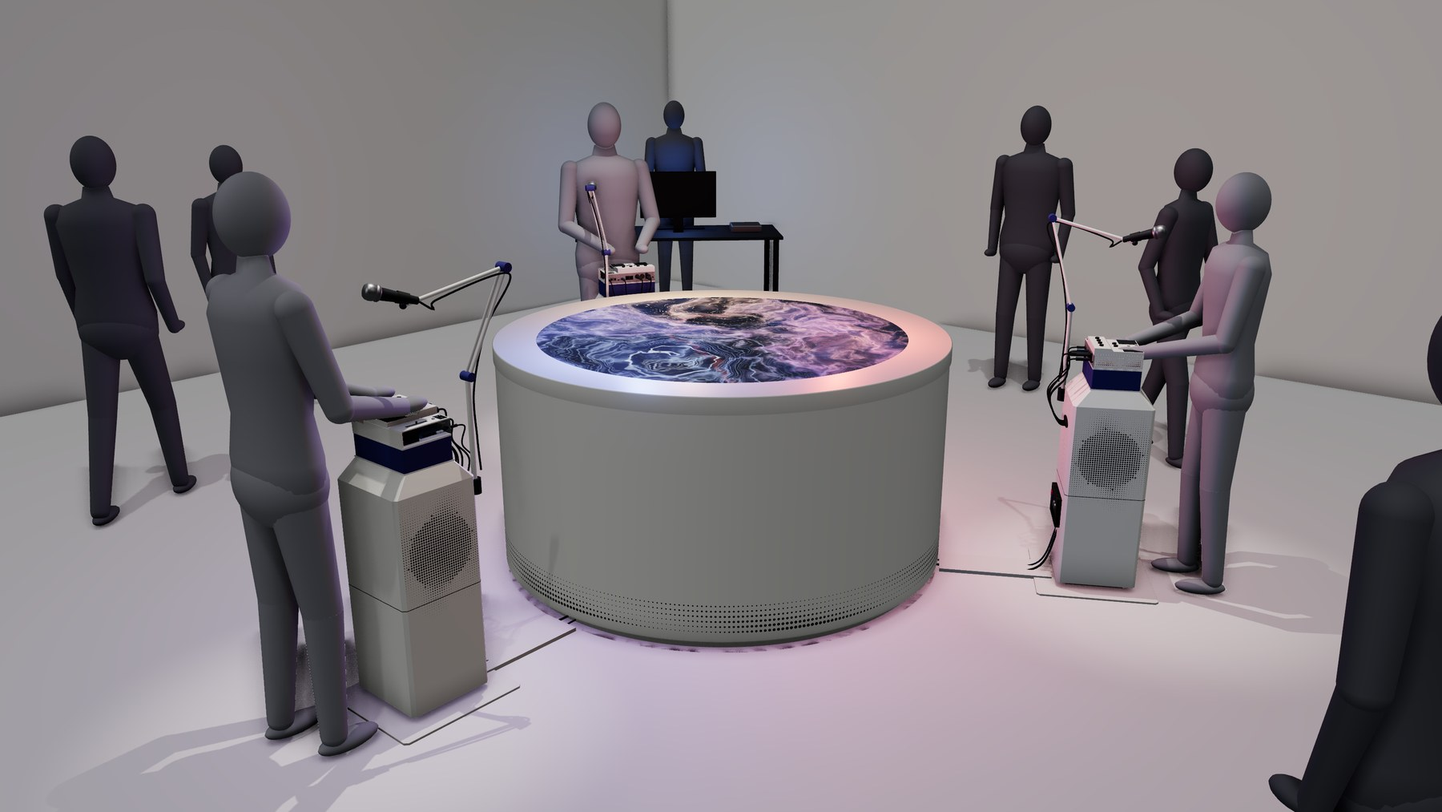
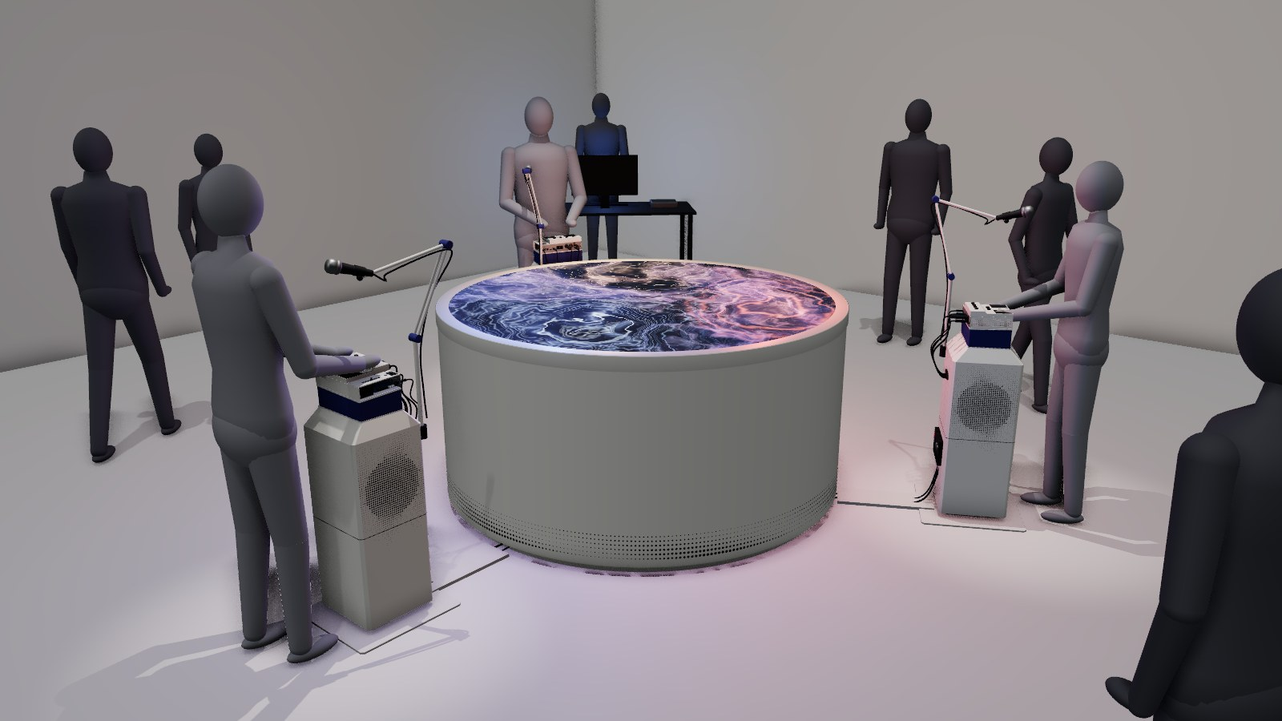
Deux petits HT2150ST dos à dos, miroirs à 45°, image de 6 pi
L'Epson L1505U (586 x 492 x 211 mm, 21,7 kg) est retiré : trop gros.
Deux BenQ HT2150ST de la liste de prêt éclairent un demi-disque chacun,
dans un socle rond de 1,94 m. Variante à un seul projecteur.

Changed region(s): [[0.0312, 0.1244, 0.9688, 1.0], [0.9375, 0.3733, 1.0, 0.56], [0.7188, 0.1244, 0.75, 0.1556]]

diff --git a/js/space.js b/js/space.js
@@ -42,32 +42,42 @@ export function screenMaterial(R,cyl){
     fragmentShader:'uniform float uAlpha;\n'+FRAG });
 }
 
-// Projecteur à plat dans le socle, miroir à 45°, image vers le haut.
-// Plan (x,z) : disque de -R à R à z = H ; miroir z = x - c ; objectif en (-x0, z0), axe vers +x.
-// Cherche le plus petit socle rond sans que le boîtier fasse ombre.
+// Projecteurs à plat dans le socle, miroirs à 45°, image vers le haut. Plan (x,z), disque de -R à R à z = H.
+// Cherche le plus petit socle rond où rien ne fait ombre. Pour deux projecteurs, le second est le symétrique (x -> -x).
+const inP=(x,z,Q)=>{ let c=false; for(let i=0,n=Q.length;i<n;i++){ const [x1,z1]=Q[i],[x2,z2]=Q[(i+1)%n]; if((z1>z)!==(z2>z)&&x<(x2-x1)*(z-z1)/(z2-z1)+x1) c=!c; } return c; };
+const ori=(p,q,r)=>(q[0]-p[0])*(r[1]-p[1])-(q[1]-p[1])*(r[0]-p[0]);
+const hits=(A,B)=>{ for(let i=0;i<A.length;i++) for(let j=0;j<B.length;j++){ const a=A[i],b=A[(i+1)%A.length],c=B[j],d=B[(j+1)%B.length]; if(ori(a,b,c)*ori(a,b,d)<0&&ori(c,d,a)*ori(c,d,b)<0) return true; } return inP(...A[0],B)||inP(...B[0],A); };
+const flip=Q=>Q.map(([x,z])=>[-x,z]);
+export const OV=.12;
 export function solve(P,R,H){
-  const Di=2*R*1.02, T=P.tr*P.aspect*Di, A=T-H; let best=null;
-  for(let si=0;si<=40;si++){ const sh=(P.s[0]+(P.s[1]-P.s[0])*si/40)*Di;
-    for(let z0=P.bot+.03;z0<.8;z0+=.01){
-      const c=sh-z0, xl=-(A-c), mir=X=>{ const den=T-X+sh; if(den<=0) return null; const u=(A+z0)/den, z=-A+u*T; return [z+c,z,u]; }, m1=mir(-R), m2=mir(R);
-      if(!m1||!m2||m1[1]<.025||m2[1]>H-.06||m1[0]<xl+.04||m1[2]<=0||m1[2]>=1||m2[2]>=1) continue;
-      const ray=x=>x>=m1[0]?-1:x<=-R?9:m1[1]+(H-m1[1])*(x-m1[0])/(-R-m1[0]), bx1=xl-P.lens, bx0=bx1-P.dep;
-      if(ray(xl)<z0+(P.lens>0?.075:P.top)+.015||ray(bx1)<z0+P.top+.015||z0+P.top>H-.08) continue;
-      const Rb=Math.max(Math.hypot(bx0,P.w/2),Math.abs(m2[0]),R)+.03; if(best&&Rb>=best.Rb) continue;
-      best={ Rb,sh,Di,T,A,z0,c,xl,bx0,bx1,m1,m2,mir };
+  const duo=P.n===2, Xa=-R, Xb=duo?OV/2:R, need=Xb-Xa, w=Math.max(2*R*1.02,need*1.02*P.aspect), h=w/P.aspect, T=P.tr*w; let best=null;
+  for(const fr of duo?[0,.5,1]:[.5]) for(const lean of [1,-1]) for(const sv of P.s) for(const sg of [1,-1]){
+    const Xc=(Xa+Xb)/2+(fr-.5)*(h-need)*.9, pv=[Xc+sv*h*lean,H-T], n=[-Math.SQRT1_2*sg,Math.SQRT1_2];
+    const refl=v=>{ const d=v[0]*n[0]+v[1]*n[1]; return [v[0]-2*d*n[0],v[1]-2*d*n[1]]; }, ax=refl([0,1]), up=refl([-lean,0]);
+    for(let q=-R-.4;q<=R+.4;q+=.02){
+      const m0=[q,.03], off=(pv[0]-q)*n[0]+(pv[1]-.03)*n[1]; if(off>=-.02) continue;
+      const M=X=>{ const d=[X-pv[0],T], k=-off/(d[0]*n[0]+d[1]*n[1]); return [pv[0]+k*d[0],pv[1]+k*d[1],k]; }, m1=M(Xa), m2=M(Xb);
+      if(!(m1[2]>0&&m1[2]<.97&&m2[2]>0&&m2[2]<.97)||Math.min(m1[1],m2[1])<.025||Math.max(m1[1],m2[1])>H-.08) continue;
+      const r=refl([pv[0]-q,pv[1]-.03]), L=[q+r[0],.03+r[1]], at=(d,e)=>[L[0]-ax[0]*d+up[0]*e,L[1]-ax[1]*d+up[1]*e], mk=d=>[at(d,P.up),at(d,-P.dn),at(P.dep,-P.dn),at(P.dep,P.up)], bd=mk(0);
+      const zs=bd.map(p=>p[1]); if(Math.min(...zs)<.03||Math.max(...zs)>H-.05) continue;
+      let Rb=Math.max(...bd.map(p=>Math.hypot(p[0],P.w/2)),R)+.03; if(best&&Rb>=best.Rb-1e-4) continue;
+      const p2=m=>[m[0],m[1]], beam=[p2(m1),p2(m2),[Xb,H],[Xa,H]], inc=[[L[0]+ax[0]*.004,L[1]+ax[1]*.004],p2(m1),p2(m2)], back=[p2(m1),p2(m2),[m2[0]-n[0]*.02,m2[1]-n[1]*.02],[m1[0]-n[0]*.02,m1[1]-n[1]*.02]];
+      if(hits(bd,beam)||hits(mk(.006),inc)||hits(back,bd)||bd.some(p=>inP(p[0]+.015,p[1],beam)||inP(p[0]-.015,p[1],beam))) continue;
+      if(duo&&([beam,inc,bd].some(Q=>hits(bd,flip(Q)))||[beam,inc,bd,back].some(Q=>hits(back,flip(Q))))) continue;
+      let mw=0; for(let i=0;i<=30;i++){ const X=Xa+(Xb-Xa)*i/30, m=M(X), y=m[2]*Math.sqrt(Math.max(R*R-X*X,0)); mw=Math.max(mw,y); Rb=Math.max(Rb,Math.hypot(m[0],y)+.04); }
+      if(best&&Rb>=best.Rb-1e-4) continue;
+      best={ Rb,T,w,h,pv,L,ax:ax[0],up:up[1],sg,m1,m2,M,Xa,Xb,x0:Math.min(...bd.map(p=>p[0])),x1:Math.max(...bd.map(p=>p[0])),z0:Math.min(...zs),z1:Math.max(...zs),ml:Math.hypot(m2[0]-m1[0],m2[1]-m1[1])+.05,mw:2*mw+.05,sv };
     } }
-  if(best){ let wy=0; for(let i=-40;i<=40;i++){ const X=R*i/40; wy=Math.max(wy,best.mir(X)[2]*Math.sqrt(Math.max(R*R-X*X,0))); } best.mw=2*wy+.06; best.ml=(best.m2[1]-best.m1[1])*Math.SQRT2+.05; }
   return best;
 }
 const CACHE=new Map();
 export function optics(s){
   const k=[s.proj,s.diam,s.ecranH].join(); if(CACHE.has(k)) return CACHE.get(k);
   const P=PROJ[s.proj], R=s.diam*FT/2, H=s.ecranH/1000, f=solve(P,R,H), o={ P,R,H,f,Rb:f?f.Rb:R+.1 };
-  o.px=2*R*1.02/P.px*1000; o.lux=P.lm*.9*(Math.PI/4/P.aspect)/1.02/1.02/(Math.PI*R*R);
-  if(f){ o.inc=Math.atan2(R+Math.abs(f.sh),f.T)*180/Math.PI; o.rim=f.Rb-R; }
+  if(f){ o.px=f.h/P.px*1000; o.lux=P.lm*.9/(f.w*f.h); o.rim=f.Rb-R; let t=0; for(let i=0;i<=60;i++){ const X=f.Xa+(f.Xb-f.Xa)*i/60; t=Math.max(t,Math.hypot(X-f.pv[0],Math.sqrt(Math.max(R*R-X*X,0)))); } o.inc=Math.atan2(t,f.T)*180/Math.PI; }
   CACHE.set(k,o); return o;
 }
-export function diamMax(s){ let m=0; for(let d=3;d<=7.001;d+=.25) if(solve(PROJ[s.proj],d*FT/2,s.ecranH/1000)) m=d; return m; }
+export function diamMax(s){ let m=3; for(let d=3;d<=7.001;d+=.25){ const f=solve(PROJ[s.proj],d*FT/2,s.ecranH/1000); if(f&&f.Rb-d*FT/2<.2) m=d; } return m; }
 
 export function buildSpace(s,lists){
   const g=new THREE.Group(), R=s.diam*FT/2, H=s.ecranH/1000, RW=s.salle, RH=3.8, out={ g, inst:[], lights:[] };
@@ -92,30 +102,33 @@ export function buildSpace(s,lists){
   // prises d'air : même trame que le case
   const L=[[],[]]; for(let j=0;j<6;j++) for(let i=0;i<360;i++){ const a=i/360*TAU, w=.5+.5*Math.cos(a*6+j*.5), r=.0016+.0046*w*(1-j/7); L[Math.sin(a)>0?1:0].push([V(Math.sin(a)*(Rb-.0052),.085+j*.02,Math.cos(a)*(Rb-.0052)),V(Math.sin(a),0,Math.cos(a)),r]); }
   L.forEach((l,k)=>{ const d=dots(l,M.hole); scr.add(d); half[k].push(d); });
-  // --- projecteur, miroir, faisceau. Repère du calcul : x -> z du monde
+  // --- projecteurs, miroirs, faisceaux. Repère du calcul : x -> z du monde
   const pj=new THREE.Group(); scr.add(pj); out.proj=pj; const beams=new THREE.Group(); scr.add(beams); out.beams=beams;
-  if(F){
-    const W3=(x,y,z)=>V(y,z,x), bx=(x0,y0,z0,x1,y1,z1,m,r)=>cbox(pj,[y0,z0,x0],[y1,z1,x1],m,r);
-    bx(F.bx0,-P.w/2,F.z0-P.bot,F.bx1,P.w/2,F.z0+P.top,P.lens?M.white:M.black,.02);
-    for(let i=0;i<12;i++) bx(F.bx0+.05+i*.03,P.w/2-.002,F.z0-P.bot*.5,F.bx0+.062+i*.03,P.w/2+.002,F.z0+P.top*.6,M.hole);
-    const lr=P.lens?.07:.035, ln=ccyl(pj,lr,Math.max(P.lens,.02)+.02,[0,F.z0,F.xl-Math.max(P.lens,.02)/2],M.black,'z'); ccyl(pj,lr*.78,.004,[0,F.z0,F.xl+.011],M.pad,'z');
-    const yb=F.z0-P.bot; if(yb>.06){ [-1,1].forEach(k=>[F.bx0+.06,F.bx1-.06].forEach(x=>rod(pj,[k*P.w*.4,0,x],[k*P.w*.4,yb,x],.012,M.dark))); bx(F.bx0+.02,-P.w/2,yb-.012,F.bx1-.02,P.w/2,yb,M.dark,.003); }
-    if(P.inverse){ const yt=F.z0+P.top; bx(F.bx0+.03,-P.w/2,yt,F.bx1-.03,P.w/2,yt+.01,M.dark,.003); }
+  if(F) for(let u=0;u<P.n;u++){
+    const G=new THREE.Group(), B=new THREE.Group(); G.rotation.y=B.rotation.y=u*Math.PI; pj.add(G); beams.add(B);
+    const W3=(x,y,z)=>V(y,z,x), bx=(x0,y0,z0,x1,y1,z1,m,r)=>cbox(G,[y0,z0,x0],[y1,z1,x1],m,r);
+    bx(F.x0,-P.w/2,F.z0,F.x1,P.w/2,F.z1,M.white,.02);
+    for(let i=0;i<9;i++) bx(F.x0+.05+i*.02,P.w/2-.002,F.z0+.03,F.x0+.06+i*.02,P.w/2+.002,F.z1-.03,M.hole);
+    ccyl(G,.036,.03,[-.06,F.L[1],F.L[0]-F.ax*.006],M.black,'z'); ccyl(G,.028,.004,[-.06,F.L[1],F.L[0]+F.ax*.011],M.pad,'z');
+    // support : plaque et quatre pattes
+    bx(F.x0+.015,-P.w/2+.02,F.z0-.012,F.x1-.015,P.w/2-.02,F.z0-.002,M.dark,.003);
+    [-1,1].forEach(k=>[F.x0+.04,F.x1-.04].forEach(x=>rod(G,[k*P.w*.4,0,x],[k*P.w*.4,F.z0-.01,x],.009,M.dark)));
     // miroir
-    const dx=F.ml/2/Math.SQRT2, mx=(F.m1[0]+F.m2[0])/2, mz=(F.m1[1]+F.m2[1])/2, mg=new THREE.Group(); mg.position.copy(W3(mx,0,mz)); mg.rotation.x=-Math.PI/4; pj.add(mg);
-    const sh=k=>{ const q=new THREE.Shape(); for(let n=0;n<64;n++){ const a=n/64*TAU, X=Math.sin(a)*R, m=F.mir(X), tt=((m[0]-mx)+(m[1]-mz))/Math.SQRT2, yy=m[2]*Math.cos(a)*R; const f=1+k/Math.max(Math.hypot(tt,yy),.05); n?q.lineTo(yy*f,-tt*f):q.moveTo(yy*f,-tt*f); } return q; };
-    const back=mesh(new THREE.ExtrudeGeometry(sh(.02),{depth:.006,bevelEnabled:false}).rotateX(-Math.PI/2),M.dark); back.position.y=-.008; mg.add(back);
-    mg.add(mesh(new THREE.ShapeGeometry(sh(.015)).rotateX(-Math.PI/2),new THREE.MeshStandardMaterial({color:'#e8edf2',metalness:1,roughness:.03}),false));
-    [-1,1].forEach(k=>{ const x=k*F.mw*.2, zt=mx+dx*.75, yt=mz+dx*.75-.02; rod(pj,[x,0,zt],[x,yt,zt],.01,M.dark); rod(pj,[x,.01,mx-dx+.02],[x,.01,zt],.01,M.dark); });
+    const mx=(F.m1[0]+F.m2[0])/2, mz=(F.m1[1]+F.m2[1])/2, mg=new THREE.Group(); mg.position.copy(W3(mx,0,mz)); mg.rotation.x=-F.sg*Math.PI/4; G.add(mg);
+    const rim=[]; for(let n=0;n<=48;n++){ const X=F.Xa+(F.Xb-F.Xa)*n/48; rim.push([X,Math.sqrt(Math.max(R*R-X*X,0))]); } const full=[...rim,...[...rim].reverse().map(([X,y])=>[X,-y])];
+    const plate=k=>{ const q=new THREE.Shape(); full.forEach(([X,y],i)=>{ const m=F.M(X), t=((m[0]-mx)+F.sg*(m[1]-mz))*Math.SQRT1_2, yy=m[2]*y, f=1+k/Math.max(Math.hypot(t,yy),.06); i?q.lineTo(yy*f,-t*f):q.moveTo(yy*f,-t*f); }); return q; };
+    const bk=mesh(new THREE.ExtrudeGeometry(plate(.022),{depth:.006,bevelEnabled:false}).rotateX(-Math.PI/2),M.dark); bk.position.y=-.008; mg.add(bk);
+    mg.add(mesh(new THREE.ShapeGeometry(plate(.016)).rotateX(-Math.PI/2),new THREE.MeshStandardMaterial({color:'#e8edf2',metalness:1,roughness:.03}),false));
+    const hi=F.m1[1]>F.m2[1]?F.m1:F.m2, lo=F.m1[1]>F.m2[1]?F.m2:F.m1, hx=lo[0]+(hi[0]-lo[0])*.8, hz=lo[1]+(hi[1]-lo[1])*.8-.02; [-1,1].forEach(k=>{ const x=k*F.mw*.16; rod(G,[x,0,hx],[x,hz,hx],.008,M.dark); rod(G,[x,.01,lo[0]],[x,.01,hx],.008,M.dark); });
     // faisceau
-    const bm=new THREE.MeshBasicMaterial({color:'#7f9dff',transparent:true,opacity:.075,side:THREE.DoubleSide,depthWrite:false}), ed=new THREE.LineBasicMaterial({color:'#4565d8',transparent:true,opacity:.8});
-    const lens=W3(F.xl,0,F.z0), ma=[], di=[]; for(let n=0;n<=72;n++){ const a=n/72*TAU, X=Math.sin(a)*R, Yy=Math.cos(a)*R, m=F.mir(X); ma.push(W3(m[0],m[2]*Yy,m[1])); di.push(W3(X,Yy,H)); }
-    const t1=[],t2=[]; for(let n=0;n<72;n++){ t1.push(lens,ma[n],ma[n+1]); t2.push(ma[n],di[n],di[n+1],ma[n],di[n+1],ma[n+1]); }
-    [t1,t2].forEach(t=>beams.add(new THREE.Mesh(new THREE.BufferGeometry().setFromPoints(t),bm)));
-    for(let n=0;n<72;n+=6) beams.add(new THREE.Line(new THREE.BufferGeometry().setFromPoints([lens,ma[n],di[n]]),ed));
+    const bm=new THREE.MeshBasicMaterial({color:u?'#e0604a':'#5f7fe8',transparent:true,opacity:.085,side:THREE.DoubleSide,depthWrite:false}), ed=new THREE.LineBasicMaterial({color:u?'#c4232c':'#3653c4',transparent:true,opacity:.75});
+    const lens=W3(F.L[0],0,F.L[1]), ma=full.map(([X,y])=>{ const m=F.M(X); return W3(m[0],m[2]*y,m[1]); }), di=full.map(([X,y])=>W3(X,y,H)), N=full.length, t1=[],t2=[];
+    for(let n=0;n<N;n++){ const k=(n+1)%N; t1.push(lens,ma[n],ma[k]); t2.push(ma[n],di[n],di[k],ma[n],di[k],ma[k]); }
+    [t1,t2].forEach(t=>B.add(new THREE.Mesh(new THREE.BufferGeometry().setFromPoints(t),bm)));
+    for(let n=0;n<N;n+=8) B.add(new THREE.Line(new THREE.BufferGeometry().setFromPoints([lens,ma[n],di[n]]),ed));
   }
   // moyeu : commutateur + alimentation
-  cbox(scr,[-Rb*.62-.1,.02,.02],[-Rb*.62+.1,.14,.3],M.dark,.006);
+  cbox(scr,[-Rb*.7-.08,.02,-.14],[-Rb*.7+.08,.14,.14],M.dark,.006);
   out.setCut=v=>{ half[1].forEach(m=>m.visible=!v); mat.uniforms.uAlpha.value=v?.6:1; out.inst.forEach((a,i)=>a.g.visible=!(v&&i===1)); out.players.children[1].visible=!v; };
   out.setBeams=v=>{ beams.visible=v; };
   const cyl=false;

diff --git a/js/fiche.js b/js/fiche.js
@@ -16,7 +16,7 @@ export function drawPlan(box,S){
   // tronc
   o.push(`<path d="M${X(-O.Rb*.7)} ${Y(-O.Rb*.7)}L${X(-W/2+1.6)} ${Y(-W/2+1.6)}" stroke="${RED}" stroke-width="3"/>`);
   o.push(`<circle cx="${X(0)}" cy="${Y(0)}" r="${O.Rb*k}" fill="#fff" stroke="${INK}" stroke-width="2"/><circle cx="${X(0)}" cy="${Y(0)}" r="${R*k}" fill="${BLUE}" fill-opacity=".14" stroke="${BLUE}" stroke-width="3"/>`);
-  if(F) o.push(`<rect x="${X(-O.P.w/2)}" y="${Y(F.bx0)}" width="${O.P.w*k}" height="${(F.bx1-F.bx0)*k}" fill="none" stroke="${INK}" stroke-dasharray="5 4" stroke-width="1.6"/><rect x="${X(-F.mw/2)}" y="${Y(F.m1[0])}" width="${F.mw*k}" height="${(F.m2[0]-F.m1[0])*k}" fill="none" stroke="${RED}" stroke-dasharray="5 4" stroke-width="1.6"/>`);
+  if(F) for(let u=0;u<O.P.n;u++){ const k=u?-1:1, rc=(x0,x1,w,c)=>{ const a=k*x0,b=k*x1; return `<rect x="${X(-w/2)}" y="${Y(Math.min(a,b))}" width="${w*100}" height="${Math.abs(b-a)*100}" fill="none" stroke="${c}" stroke-dasharray="5 4" stroke-width="1.6"/>`; }; o.push(rc(F.x0,F.x1,O.P.w,INK),rc(F.m1[0],F.m2[0],F.mw,RED)); }
   Object.keys(INSTR).forEach((n,i)=>{ const a=i*Math.PI*2/3, s=Math.sin(a), c=Math.cos(a), x=X(s*Rr), y=Y(c*Rr), deg=-a*180/Math.PI;
     o.push(`<path d="M${X(s*O.Rb)} ${Y(c*O.Rb)}L${X(s*(Rr-.15))} ${Y(c*(Rr-.15))}" stroke="${RED}" stroke-width="2"/>`);
     o.push(`<g transform="translate(${x} ${y}) rotate(${deg})"><rect x="-23" y="-23" width="46" height="46" fill="#fff" stroke="${INK}" stroke-width="1.5"/><rect x="-13.3" y="-9" width="26.6" height="18" fill="${BLUE}"/><path d="M16 -11l16 -8v38l-16 -8zM-16 -11l-16 -8v38l16 -8z" fill="${INK}"/><path d="M38 0h52m-10 -6l10 6l-10 6M-38 0h-52m10 -6l-10 6l10 6" fill="none" stroke="${GREY}" stroke-width="1.6"/><circle cx="0" cy="52" r="20" fill="none" stroke="${GREY}" stroke-width="2"/></g>`);
@@ -24,7 +24,7 @@ export function drawPlan(box,S){
   o.push(`<g transform="translate(${X(-W/2+1.35)} ${Y(-W/2+1.35)}) rotate(-45)"><rect x="-80" y="-35" width="160" height="70" fill="#fff" stroke="${INK}" stroke-width="2"/><text y="7" text-anchor="middle" font-size="20" font-weight="600">Régie</text></g>`);
   o.push(`<text x="${X(-O.Rb)-12}" y="${Y(.5)}" text-anchor="end" font-size="18" font-weight="600" fill="${BLUE}">image ${fr(S.diam,2)} pi · ${fr(2*R,2)} m</text>`);
   o.push(`<text x="${X(.2)}" y="${Y(O.Rb+.28)}" font-size="19">${fr(S.ecart)} mm</text>`);
-  o.push(`<text x="${w/2}" y="${w+38}" text-anchor="middle" font-size="20">Salle ${fr(W,1)} × ${fr(W,1)} m, quadrillage de 1 m. Socle Ø ${fr(O.Rb*2,2)} m, ${PROJ[S.proj].nom}.</text><text x="${w/2}" y="${w+68}" text-anchor="middle" font-size="20">Instruments à ${fr(2*Rr*Math.sin(Math.PI/3),2)} m l’un de l’autre, centre à centre.</text>`);
+  o.push(`<text x="${w/2}" y="${w+38}" text-anchor="middle" font-size="20">Salle ${fr(W,1)} × ${fr(W,1)} m, quadrillage de 1 m. Socle Ø ${fr(O.Rb*2,2)} m, ${PROJ[S.proj].titre.toLowerCase().replace('ht','HT').replace('st','ST')}.</text><text x="${w/2}" y="${w+68}" text-anchor="middle" font-size="20">Instruments à ${fr(2*Rr*Math.sin(Math.PI/3),2)} m l’un de l’autre, centre à centre.</text>`);
   box.innerHTML=`<svg viewBox="-10 -10 ${w+20} ${w+m}" style="max-width:860px;margin:auto" role="img" aria-label="Plan de l’espace">${o.join('')}</svg>`;
 }
 
@@ -75,15 +75,17 @@ export function drawSignal(box){
 }
 
 export function drawChoix(box,S){
-  const o=optics(S), e=optics({...S,proj:'epson',diam:5,ecranH:950}), h=optics({...S,proj:'ht2150',diam:3.75,ecranH:950}), cm=v=>fr(v*100);
+  const e=optics({proj:'duo',diam:6,ecranH:950}), h=optics({proj:'solo',diam:3.75,ecranH:950}), cm=v=>fr(v*100), lx=v=>fr(Math.round(v/50)*50);
   const Q=[
-   ['Le projecteur',[`Kit Epson Pro L1505U avec l’objectif ELPLU03S, de la liste de prêt. Avec cet objectif, son rapport est de 0,48 à 0,57 : il est à plat dans le socle et tire vers un miroir à 45°. Image de 5 pi (1,52 m), socle rond de ${fr(e.Rb*2,2)} m, toile à 95 cm. Aucun projecteur debout ni au plafond.`,
-     `Plan B de la même liste : le BenQ HT2150ST (cinq exemplaires), suspendu à l’envers dans le socle. Image de 3,75 pi (1,14 m) et socle de ${fr(h.Rb*2,2)} m.`]],
-   ['À vérifier sur l’Epson',[`Longueur de l’objectif qui dépasse du boîtier (10 cm dans le modèle), hauteur de l’axe, et décentrement vertical réel (± 24 % selon Epson pour cette taille d’appareil). Le modèle utilise ${fr(Math.abs(e.f.sh/e.f.Di)*100)} %.`,
-     `Chaleur et bruit : jusqu’à 955 W et 39 dB, 33 dB en Eco. Le socle doit être ventilé, et le laser peut être baissé : à pleine puissance la toile reçoit environ ${fr(Math.round(e.lux/50)*50)} lx.`]],
-   ['Le miroir',[`Environ ${cm(e.f.ml)} × ${cm(e.f.mw)} cm, à première surface (sinon l’image se dédouble). Verre ou film tendu sur cadre. Le socle doit garder l’angle de 45° au demi-degré près : prévoir trois vis de réglage.`]],
-   ['La toile',[`L’incidence ne dépasse pas ${fr(e.inc)}° : une toile tendue devient possible. Un creux de 5 mm déplace l’image d’environ ${fr(5*Math.tan(e.inc*Math.PI/180))} mm. Une plaque rigide reste préférable si le public peut s’y appuyer.`,
-     `Dans une galerie blanche, les noirs de l’image montent avec la lumière de la salle : choisir une toile grise de rétroprojection, et garder la lumière basse autour du disque.`]],
+   ['Les projecteurs',[`Deux BenQ HT2150ST de la liste de prêt (379 × 277 × 122 mm, 3,6 kg), dos à dos au centre du socle, à l’envers comme au plafond et à plat. Chacun tire vers un miroir à 45° au bord et éclaire un demi-disque. Image de 6 pi (1,83 m), socle rond de ${fr(e.Rb*2,2)} m, toile à 95 cm, environ ${lx(e.lux)} lx.`,
+     `Version simple : un seul HT2150ST, image de 3,75 pi (1,14 m), socle de ${fr(h.Rb*2,2)} m. Il resterait trois ou quatre appareils en réserve.`]],
+   ['Raccord des deux images',[`Les deux demi-images se recouvrent de ${cm(.12)} cm au milieu. Il faut deux sorties vidéo en 1920 × 1080 et un fondu de raccord : soit une page de sortie double dans Palinopsia, soit Spout vers un logiciel de mapping.`,
+     `Une œuvre sombre au centre rendrait le raccord presque invisible : les noirs d’un DLP se superposent sur cette bande.`]],
+   ['À vérifier sur le HT2150ST',[`Le décalage vertical est donné à 102,5 % ou à 105 % selon la source : le calcul accepte les deux, et la position finale se règle en bougeant le miroir. Vérifier aussi la place de l’objectif dans le boîtier, estimée ici, et le menu de projection au plafond.`,
+     `Les lampes : deux appareils tirent jusqu’à 353 W chacun. Prévoir deux ventilateurs lents dans le socle.`]],
+   ['Les miroirs',[`Deux plaques d’environ ${cm(e.f.ml)} × ${cm(e.f.mw)} cm, à première surface (sinon l’image se dédouble). Trois vis de réglage par miroir : un degré d’erreur déplace l’image de plusieurs centimètres.`]],
+   ['La toile',[`L’incidence ne dépasse pas ${fr(e.inc)}°. Une toile tendue est possible : un creux de 5 mm déplace l’image d’environ ${fr(5*Math.tan(e.inc*Math.PI/180))} mm. Une plaque rigide reste préférable si le public peut s’y appuyer.`,
+     `Dans une galerie blanche, les noirs montent avec la lumière de la salle : toile grise de rétroprojection, très diffusante, et lumière basse autour du disque.`]],
    ['Des 10 po dans un instrument de 179 mm',[`Un coaxial de 10 po fait ${DRIVER.d} mm de diamètre et ${DRIVER.depth} mm de profondeur de montage. Dos à dos, il faut au moins 290 mm de large et 290 mm de profond : le stand est forcément plus profond que le case (179 mm). Le Monolithe règle l’écart par un épaulement, le Losange par ses facettes.`]],
    ['Large bande ou grave',[`Un haut-parleur de 10 po seul ne monte pas dans l’aigu. La maquette suppose des coaxiaux (10 po et moteur d’aigu au centre). Une autre voie, à la Barefoot : 10 po latéraux pour le grave et un petit large bande vers le joueur.`]],
    ['Vibrations et IMU',[`Les deux haut-parleurs sont sous la base molle : leurs vibrations peuvent entrer dans l’IMU. Le montage dos à dos annule les forces seulement si les deux membranes jouent la même chose. D’où des graves sommés en mono, et un filtre passe-bas sur l’IMU.`]],

diff --git a/js/main.js b/js/main.js
@@ -20,12 +20,12 @@ const fr=(v,d=0)=>v.toLocaleString('fr-CA',{minimumFractionDigits:d,maximumFract
 export const S = {
   tab:'espace', stand:'A', mic:'bras', open:false, silicone:'bleu', padH:980, nom:'RES',
   mode:'un', eclate:0, xray:false, cotesI:false, figure:false,
-  proj:'epson', diam:5, ecranH:950, ecart:450, salle:9, lum:60, vue:'ensemble', public:true, cables:true, faisceau:false, coupe:false, cotesE:false
+  proj:'duo', diam:6, ecranH:950, ecart:450, salle:9, lum:60, vue:'ensemble', public:true, cables:true, faisceau:false, coupe:false, cotesE:false
 };
 const DEF={...S};
 const KEYS={tab:'t',stand:'s',mic:'m',open:'g',silicone:'c',padH:'p',nom:'n',mode:'d',lum:'l',proj:'j',diam:'o',ecranH:'h',ecart:'a',salle:'r',vue:'v',xray:'x'};
 (function readHash(){ const q=new URLSearchParams(location.hash.slice(1)); for(const k in KEYS){ const v=q.get(KEYS[k]); if(v===null) continue; const t=typeof DEF[k]; S[k]=t==='number'?(+v||DEF[k]):t==='boolean'?v==='1':v; }
-  if(!STANDS[S.stand]) S.stand='A'; if(!PROJ[S.proj]) S.proj='epson'; if(!SILICONE[S.silicone]) S.silicone='bleu'; if(!INSTR[S.nom]) S.nom='RES'; })();
+  if(!STANDS[S.stand]) S.stand='A'; if(!PROJ[S.proj]) S.proj='duo'; if(!SILICONE[S.silicone]) S.silicone='bleu'; if(!INSTR[S.nom]) S.nom='RES'; })();
 function writeHash(){ const q=new URLSearchParams(); for(const k in KEYS) if(S[k]!==DEF[k]) q.set(KEYS[k],typeof S[k]==='boolean'?(S[k]?1:0):S[k]); const h=q.toString(); history.replaceState(null,'',h?'#'+h:location.pathname+location.search); }
 
 // ---------------------------------------------------------------- rendu
@@ -95,7 +95,7 @@ function applyRoom(){
   }
   space.inst.filter((a,k)=>!(S.coupe&&k===1)).forEach(a=>label(a.nom,V(Math.sin(a.angle)*i.Rr,S.padH/1000+.16,Math.cos(a.angle)*i.Rr),'n',g));
   if(S.cables||S.coupe) label('Régie : Palinopsia',space.regie.position.clone().setY(1.42),'',g);
-  if(S.coupe||S.faisceau) { const f=space.O.f; if(f){ label(PROJ[S.proj].nom,V(0,f.z0+.2,(f.bx0+f.bx1)/2),'',g); label(`Miroir ${fr(f.ml*1000)} × ${fr(f.mw*1000)}`,V(0,f.m2[1]+.06,f.m2[0]),'',g); } };
+  if(S.coupe||S.faisceau) { const f=space.O.f, N=space.O.P.n; if(f) for(let u=0;u<N;u++){ const k=u?-1:1; label(PROJ[S.proj].nom,V(0,f.z1+.06,k*(f.x0+f.x1)/2),'',g); label(`Miroir ${fr(f.ml*100)} × ${fr(f.mw*100)} cm`,V(0,Math.max(f.m1[1],f.m2[1])+.05,k*(f.m1[0]+f.m2[0])/2),'',g); } };
 }
 
 // ---------------------------------------------------------------- caméras
@@ -140,7 +140,7 @@ function panel(){
   } else {
     grp('Vue',seg('vue',{ensemble:'Ensemble',joueur:'Joueur',instrument:'Instrument',coupe:'Coupe',plan:'Dessus',regie:'Régie'},()=>{ viewRoom(); writeHash(); }));
     const dm=diamMax(S); if(S.diam>dm) S.diam=dm;
-    grp('Projecteur',seg('proj',Object.fromEntries(Object.entries(PROJ).map(([k,v])=>[k,v.nom])),()=>{ const d=diamMax(S); if(S.diam>d) S.diam=d; reE(); }),`<p class="desc">${PROJ[S.proj].source}, ${PROJ[S.proj].bruit}. À plat dans le socle, miroir à 45°.</p>`);
+    grp('Projecteur',seg('proj',Object.fromEntries(Object.entries(PROJ).map(([k,v])=>[k,v.titre])),()=>{ const d=diamMax(S); if(S.diam>d) S.diam=d; reE(); }),`<p class="desc">${PROJ[S.proj].court}</p>`);
     grp('Disque',rng('diam','Image',3,dm,.25,v=>`${fr(v,2)} pi (${fr(v*FT,2)} m)`,reE),rng('ecranH','Hauteur de la toile',850,980,10,mm,()=>{ const d=diamMax(S); if(S.diam>d) S.diam=d; reE(); panel(); },false),rng('ecart','Écart socle, instrument',250,1200,50,mm,reE));
     grp('Galerie',rng('salle','Côté de la salle',6,12,.5,v=>fr(v,1)+' m',reE),rng('lum','Lumière de la salle',0,100,5,v=>v+' %',()=>{ applyRoom(); writeHash(); }));
     grp('Instruments',seg('stand',Object.fromEntries(Object.entries(STANDS).map(([k,v])=>[k,v.nom])),reE),Object.assign(seg('mic',{bras:'Bras articulé',pied:'Pied de micro'},reE),{style:'margin-top:8px'}),Object.assign(seg('open',{false:'Grilles',true:'Membranes'},reE),{style:'margin-top:8px'}),'<div style="height:10px"></div>',sil);
@@ -155,7 +155,7 @@ function readout(){
     d.innerHTML=row('Hauteur du stand',mm(i.Hs*1000))+row('Emprise au sol',`${i.encombrement[0]} × ${i.encombrement[1]} mm`)+row('Corps, largeur × prof.',`${i.corps[0]} × ${i.corps[1]} mm`)+row('Volume par haut-parleur',`≈ ${fr(i.vol/2,0)} L`)+row('Masse totale',`≈ ${fr(i.kg)} kg`)+row('Force qui fait basculer',`≈ ${fr(i.bascule,-0)} N`,i.bascule<110);
   } else { const o=optics(S);
     const f=o.f; if(!f) d.innerHTML=row('Montage','impossible',true);
-    else d.innerHTML=row('Socle',`Ø ${fr(o.Rb*2,2)} m (${fr(o.Rb*2/FT,1)} pi)`)+row('Anneau blanc autour',`${fr(o.rim*100)} cm`)+row('Objectif à la toile',`${fr(f.T*100)} cm de trajet`)+row('Miroir',`${fr(f.ml*100)} × ${fr(f.mw*100)} cm`)+row('Décentrement',`${fr(Math.abs(f.sh/f.Di)*100)} %`)+row('Pixel',`${fr(o.px,1)} mm`)+row('Éclairement de la toile',`≈ ${fr(Math.round(o.lux/50)*50)} lx`)+row('Incidence maximale',`${fr(o.inc)}°`);
+    else d.innerHTML=row('Socle',`Ø ${fr(o.Rb*2,2)} m (${fr(o.Rb*2/FT,1)} pi)`)+row('Anneau blanc autour',`${fr(o.rim*100)} cm`)+row('Objectif à la toile',`${fr(f.T*100)} cm de trajet`)+row(o.P.n>1?'Miroirs (2)':'Miroir',`${fr(f.ml*100)} × ${fr(f.mw*100)} cm`)+row('Image de chaque projecteur',`${fr(f.w,2)} × ${fr(f.h,2)} m`)+row('Pixel',`${fr(o.px,1)} mm`)+row('Éclairement de la toile',`≈ ${fr(Math.round(o.lux/50)*50)} lx`)+row('Incidence maximale',`${fr(o.inc)}°`);
     d.innerHTML+=row('Distance entre instruments',`${fr(space?.info.dist||0,2)} m`);
   }
 }

diff --git a/js/data.js b/js/data.js
@@ -44,9 +44,10 @@ export const INSTR = {
 };
 export const FT = 0.3048;
 
-// Projecteurs de la liste de prêt. s : décentrement vertical possible (fraction de la hauteur d'image, + = image sous l'axe),
-// dep/w : boîtier, lens : objectif qui dépasse, top/bot : boîtier au-dessus et au-dessous de l'axe (m)
+// BenQ HT2150ST (liste de prêt, cinq exemplaires) : 379 × 277 × 122 mm, 3,6 kg, rapport 0,69, décalage de 102,5 à 105 %.
+// up/dn : boîtier du côté de l'image et du côté opposé, depuis l'axe de l'objectif (m)
+const HT = { nom:'BenQ HT2150ST', aspect:16/9, px:1080, lm:2200, tr:.69, s:[.525,.55], dep:.277, up:.04, dn:.085, w:.379 };
 export const PROJ = {
-  epson:{ nom:'Epson L1505U + ELPLU03S', aspect:1.6, px:1200, lm:12000, tr:.48, s:[-.24,.24], dep:.493, lens:.10, top:.105, bot:.105, w:.587, source:'Laser 12 000 lm, 1920 × 1200', bruit:'33 à 39 dB', kg:24 },
-  ht2150:{ nom:'BenQ HT2150ST', aspect:16/9, px:1080, lm:2200, tr:.69, s:[.525,.55], dep:.277, lens:0, top:.085, bot:.04, w:.379, source:'Lampe 2 200 lm, 1920 × 1080', bruit:'27 à 29 dB', kg:3.6, inverse:true }
+  duo:{ ...HT, n:2, titre:'Deux HT2150ST', court:'Dos à dos au centre, un miroir à 45° chacun, un demi-disque chacun.' },
+  solo:{ ...HT, n:1, titre:'Un HT2150ST', court:'Un seul projecteur et un miroir à 45°. Plus simple, image plus petite.' }
 };

diff --git a/README.md b/README.md
@@ -27,7 +27,7 @@ Chaque instrument tourne sur [Pandore](https://github.com/filliformes/pandore) e
 
 ## L'espace
 
-Une galerie blanche. Un disque horizontal de 5 pi (1,52 m), rétroprojeté par en dessous, dans un socle rond en tôle blanche. Le projecteur est à plat dans le socle et tire vers un miroir à 45°. La maquette cherche le plus petit socle sans ombre portée, selon le projecteur, le diamètre et la hauteur de la toile.
+Une galerie blanche. Un disque horizontal de 6 pi (1,83 m), rétroprojeté par en dessous, dans un socle rond en tôle blanche de 1,96 m. Deux petits projecteurs à plat, dos à dos au centre, tirent chacun vers un miroir à 45° et éclairent un demi-disque. La maquette cherche le plus petit socle sans ombre portée.
 
 ![Coupe](img/coupe.jpg)
 
